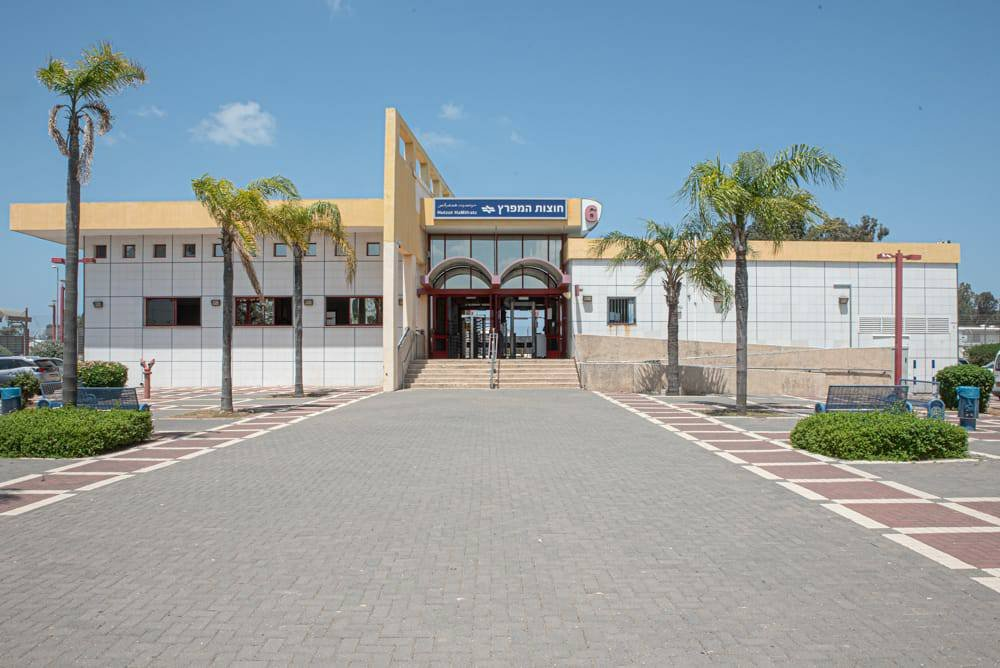
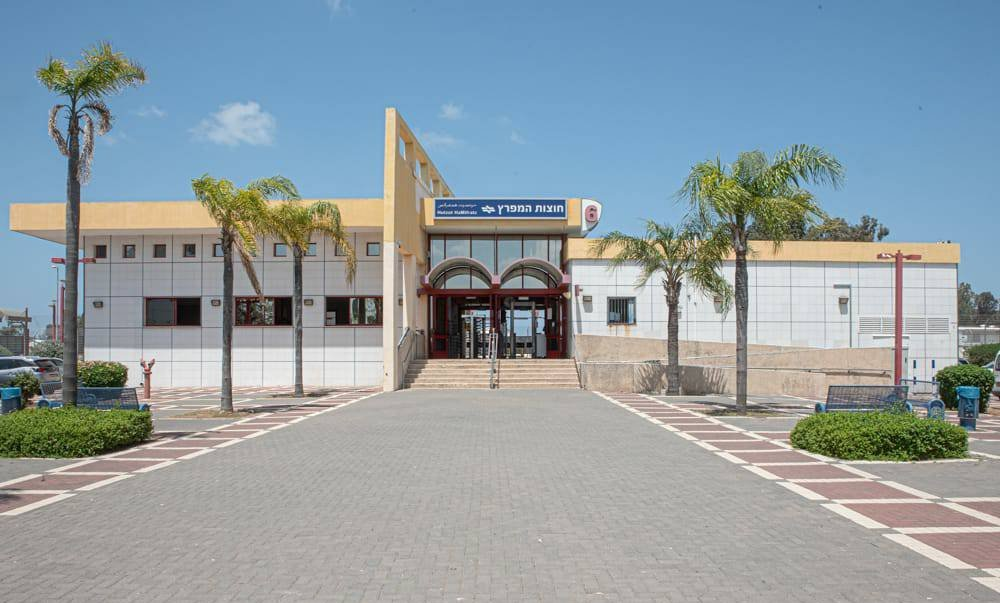
Change hutzot hamifratz station name
+ reduced file size

diff --git a/app/data/stations.ts b/app/data/stations.ts
@@ -74,7 +74,7 @@ const stations = [
   {
     id: "1300",
     hebrew: "חוצות המפרץ",
-    english: "Hutsot HaMifrats",
+    english: "Hutzot HaMifratz",
     russian: "Хоцот ха-Мифрац ",
     arabic: "حوتسوت همفراتس",
     image: require("../../assets/station-images/hotzot-hamifratz.jpeg"),
